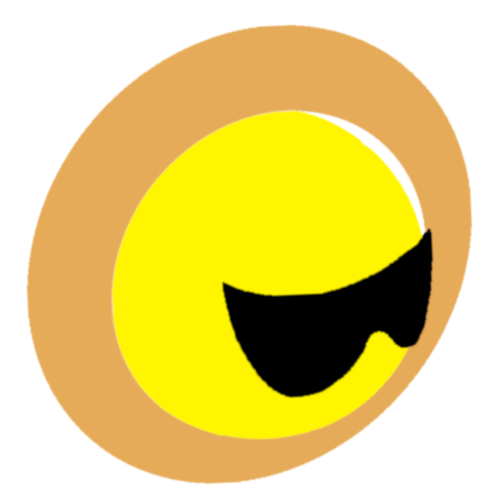
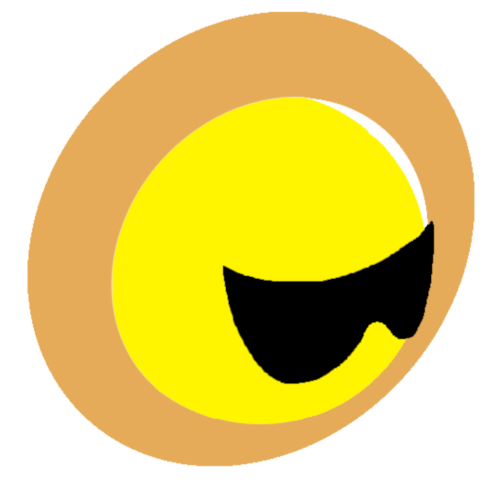
Various changes: Saturn hover, added hp bars, added more attack images

diff --git a/src/resources/Images.java b/src/resources/Images.java
@@ -7,7 +7,7 @@ public class Images {
 
     public static PImage jamLogo;
     public static PImage[] maria = new PImage[10];
-    public static PImage[] saturn = new PImage[12];
+    public static PImage[] saturn = new PImage[8];
     public static PImage poof;
     public static PImage background;
 
@@ -28,20 +28,16 @@ public class Images {
         saturn[0] = display.loadImage("img/saturn/1.png");
         saturn[1] = display.loadImage("img/saturn/2.png");
         saturn[2] = display.loadImage("img/saturn/3.png");
-        saturn[3] = display.loadImage("img/saturn/4.png");
-        saturn[4] = saturn[2];
-        saturn[5] = saturn[1];
-        saturn[6] = saturn[0];
-        saturn[7] = display.loadImage("img/saturn/8.png");
-        saturn[8] = display.loadImage("img/saturn/9.png");
-        saturn[9] = display.loadImage("img/saturn/10.png");
-        saturn[10] = saturn[8];
-        saturn[11] = saturn[7];
+        saturn[3] = saturn[1];
+        saturn[4] = saturn[0];
+        saturn[5] = display.loadImage("img/saturn/6.png");
+        saturn[6] = display.loadImage("img/saturn/7.png");
+        saturn[7] = saturn[5];
 
         jamLogo = display.loadImage("img/jamlogo.png");
         jamLogo.resize(1440, 800);
-        poof = display.loadImage("img/poof.png");
-        background = display.loadImage("img/jamlogo.png");
+        poof = display.loadImage("img/attacks/poof.png");
+        background = display.loadImage("img/background.png");
         background.resize(1440, 800);
     }
 

diff --git a/src/entities/actors/Actor.java b/src/entities/actors/Actor.java
@@ -13,6 +13,7 @@ public abstract class Actor extends Entity implements Comparable<Actor> {
 
     protected int spd;
     protected float hp;
+    protected float hpmax;
     protected float power;
     protected Animation currentAnimation;
     protected Action[] attacks;
@@ -23,6 +24,7 @@ public abstract class Actor extends Entity implements Comparable<Actor> {
         super(x, y, w, h);
         this.spd = spd;
         this.hp = hp;
+        this.hpmax = hp;
         this.power = power;
         this.currentAnimation = currentAnimation;
         this.attacks = attacks;
@@ -59,6 +61,18 @@ public abstract class Actor extends Entity implements Comparable<Actor> {
     @Override
     public void draw(PApplet display) {
         currentAnimation.draw(display, x, y, w, h);
+
+        // draw hp bars
+        display.push();
+        display.noStroke();
+        display.fill(50,225,100);
+        display.beginShape(PApplet.QUAD);
+        display.vertex(x-w/2,y+h/2+10);
+        display.vertex(x-w/2,y+h/2+15);
+        display.vertex(x-w/2 + (w*hp/hpmax),y+h/2+15);
+        display.vertex(x-w/2 + (w*hp/hpmax),y+h/2+10);
+        display.endShape();
+        display.pop();
     }
 
     @Override

diff --git a/src/entities/actors/enemies/Saturn.java b/src/entities/actors/enemies/Saturn.java
@@ -11,7 +11,7 @@ import java.lang.annotation.Target;
 public class Saturn extends Enemy {
 
     public Saturn(float x, float y) {
-        super(x, y, 150, 150, 4, 50, 3, new Animation(Images.saturn, 10, false, true),
+        super(x, y, 150, 150, 4, 50, 3, new Animation(Images.saturn, 12, false, true),
                 new Action[]{new Punch(x, y, 50, 50, Images.poof, 10,(float)(-Math.PI/2),5)});
     }
 

diff --git a/src/graphics/Main.java b/src/graphics/Main.java
@@ -25,7 +25,8 @@ public class Main extends PApplet {
     }
 
     public void draw() {
-        background(background);
+        image(Images.background, width/2, height/2, width, height);
+
         maria.draw(this);
         maria.go(this);
         maria.act(new Actor[]{saturn});
